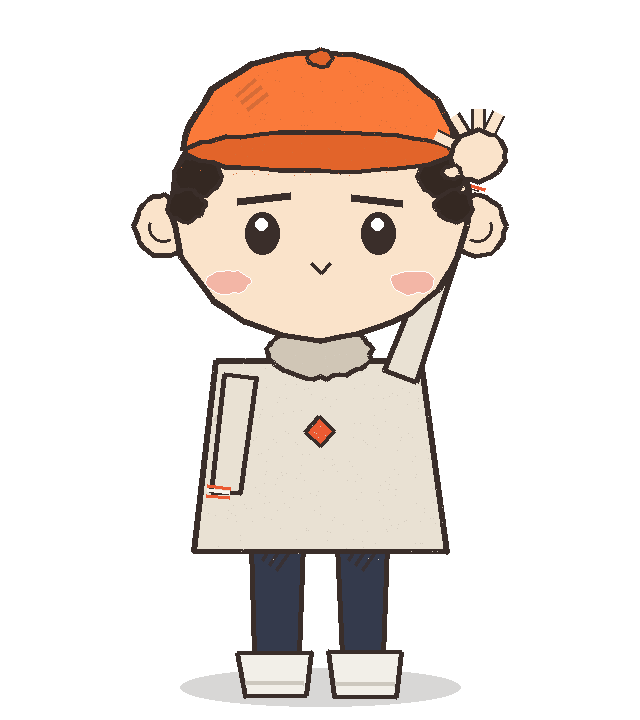
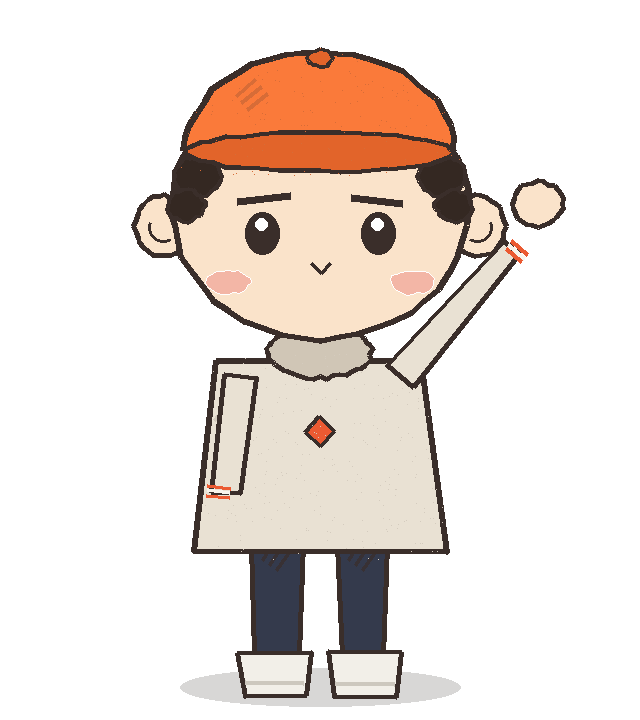
mitten hands (zero fingers, raised hand clear of head) + explain-time card motion: desc wipe-in, shimmer rows, star count-up, tile float, badge ping

Changed region(s): [[0.5938, 0.1528, 0.9062, 0.5194], [0.625, 0.5194, 0.6562, 0.55]]

diff --git a/pipeline/hf_project.py b/pipeline/hf_project.py
@@ -147,8 +147,8 @@ def _card_html(card: dict, uid: str) -> str:
   <div class="cw-head"><span class="cw-dot r"></span><span class="cw-dot y"></span><span class="cw-dot g"></span><span class="cw-title">github.com</span></div>
   <div class="cw-body">
     <div class="cw-reponame">{GITHUB_SVG}<span>{name}</span></div>
-    <div class="cw-desc">{desc}</div>
-    <div class="cw-foot"><span class="cw-stars">{STAR_SVG}<span>{stars}</span></span>{lang_row}</div>
+    <div id="{uid}-repodesc" class="cw-desc">{desc}</div>
+    <div class="cw-foot"><span class="cw-stars">{STAR_SVG}<span id="{uid}-repostars">{stars}</span></span>{lang_row}</div>
   </div>
 </div>'''
     if kind == "stats":
@@ -222,14 +222,15 @@ def _card_html(card: dict, uid: str) -> str:
         short = name.split("/")[-1] if "/" in str(card.get("name", "")) else str(card.get("name", ""))
         tile = _esc((short[:1] or "R").upper())
         rows = "".join(
-            f'<div id="{uid}-mock{j}" class="cw-skrow" style="width:{w}%"></div>'
+            f'<div id="{uid}-mock{j}" class="cw-skrow" style="width:{w}%">'
+            f'<i class="cw-skshine"></i></div>'
             for j, w in enumerate((78, 56, 66)))
         return f'''<div id="{uid}-card" class="clip hf-card" data-start="__CARDSTART__" data-duration="__CDUR__">
-  <div class="cw-toolhead"><span class="cw-toolnum">#{n}</span><span class="cw-tooltile">{tile}</span>
-    <div class="cw-toolmeta"><div class="cw-toolname">{short}</div><div class="cw-tooldesc">{desc}</div></div></div>
+  <div class="cw-toolhead"><span id="{uid}-toolnum" class="cw-toolnum">#{n}</span><span id="{uid}-tooltile" class="cw-tooltile">{tile}</span>
+    <div class="cw-toolmeta"><div class="cw-toolname">{short}</div><div id="{uid}-tooldesc" class="cw-tooldesc">{desc}</div></div></div>
   <div class="cw-toolmock">{rows}</div>
   <div class="cw-toolfoot"><span id="{uid}-osschip" class="cw-osschip">✓ Open source</span>
-    <span class="cw-toolstars">{STAR_SVG}<span>{stars}</span></span></div>
+    <span class="cw-toolstars">{STAR_SVG}<span id="{uid}-starcount">{stars}</span></span></div>
 </div>'''
     if kind == "comment":
         # listicle CTA: the winner's comment-input mockup with the keyword gate
@@ -334,7 +335,9 @@ SCENE_CSS = """
   .cw-toolname { font:800 38px/1.1 'Inter'; color:#0e1220; word-break:break-word; }
   .cw-tooldesc { margin-top:10px; font:500 27px/1.3 'Inter'; color:#3d4356; }
   .cw-toolmock { background:#ffffff; padding:4px 34px 0; }
-  .cw-skrow { height:20px; border-radius:10px; background:#eef0f6; margin-bottom:14px; opacity:0; }
+  .cw-skrow { position:relative; overflow:hidden; height:20px; border-radius:10px; background:#eef0f6; margin-bottom:14px; opacity:0; }
+  .cw-skshine { position:absolute; top:0; bottom:0; left:0; width:34%; border-radius:10px;
+    background:linear-gradient(90deg,rgba(255,255,255,0),rgba(255,255,255,.92),rgba(255,255,255,0)); }
   .cw-toolfoot { display:flex; align-items:center; gap:18px; padding:8px 34px 34px;
     background:#ffffff; border-radius:0 0 26px 26px; }
   .cw-osschip { display:inline-flex; align-items:center; gap:10px; padding:14px 26px;
@@ -479,6 +482,53 @@ def _scene_html(idx: int, scene: dict, tl_data: dict, lead: float) -> str:
             f'  tl.fromTo("#{uid}-osschip",{{scale:0.6,opacity:0}},'
             f'{{scale:1,opacity:1,duration:0.30,ease:"back.out(2.2)",immediateRender:false}},'
             f'{t + 0.05:.2f});')
+        # motion graphics while the narration explains what the repo does:
+        # the description wipes in, the info rows shimmer on a loop, the star
+        # count ticks up, the app tile floats, the #N badge pings. All tweens
+        # are bounded-repeat (seek-safe for the frame-accurate render).
+        t_expl = t + 0.35  # after the Open-source chip lands
+        listicle_tl.append(
+            f'  tl.set("#{uid}-tooldesc",{{clipPath:"inset(-6% 100% -6% 0)"}},{card_start + 0.01:.2f});')
+        listicle_tl.append(
+            f'  tl.to("#{uid}-tooldesc",{{clipPath:"inset(-6% 0% -6% 0)",duration:0.9,ease:"power2.out"}},{t_expl:.2f});')
+        stars_raw = str((scene.get("card") or {}).get("stars", "")).replace(",", "").strip()
+        if stars_raw.isdigit():
+            listicle_tl.append(
+                f'  tl.set("#{uid}-starcount",{{innerText:0}},{card_start + 0.01:.2f});')
+            listicle_tl.append(
+                f'  tl.to("#{uid}-starcount",{{innerText:{int(stars_raw)},snap:"innerText",'
+                f'duration:0.9,ease:"power1.out"}},{t_expl:.2f});')
+        t_shine = card_start + 1.15
+        loop = max(int((max(duration - 0.35, t_shine + 1.2) - t_shine) / 1.15), 1)
+        for j in range(3):
+            listicle_tl.append(
+                f'  tl.fromTo("#{uid}-mock{j} .cw-skshine",{{xPercent:-150}},'
+                f'{{xPercent:330,duration:0.85,ease:"power1.inOut",repeat:{loop},repeatDelay:0.30}},'
+                f'{t_shine + j * 0.22:.2f});')
+        fl = max(int((duration - card_start - 1.2) / 1.0), 1) * 2
+        listicle_tl.append(
+            f'  tl.to("#{uid}-tooltile",{{y:-9,duration:1.0,yoyo:true,repeat:{fl},'
+            f'ease:"sine.inOut",immediateRender:false}},{card_start + 1.20:.2f});')
+        listicle_tl.append(
+            f'  tl.fromTo("#{uid}-toolnum",{{scale:1}},'
+            f'{{scale:1.14,duration:0.42,yoyo:true,repeat:3,ease:"sine.inOut",immediateRender:false}},'
+            f'{card_start + 1.30:.2f});')
+    if kind == "repo":
+        # same explain-time motion on the single-mode GitHub card: description
+        # wipes in as the narration reads it, stars tick up from 0
+        t_expl = card_start + 0.85
+        cardtl = [
+            f'  tl.set("#{uid}-repodesc",{{clipPath:"inset(-6% 100% -6% 0)"}},{card_start + 0.01:.2f});',
+            f'  tl.to("#{uid}-repodesc",{{clipPath:"inset(-6% 0% -6% 0)",duration:0.9,ease:"power2.out"}},{t_expl:.2f});',
+        ]
+        stars_raw = str((scene.get("card") or {}).get("stars", "")).replace(",", "").strip()
+        if stars_raw.isdigit():
+            cardtl.append(
+                f'  tl.set("#{uid}-repostars",{{innerText:0}},{card_start + 0.01:.2f});')
+            cardtl.append(
+                f'  tl.to("#{uid}-repostars",{{innerText:{int(stars_raw)},snap:"innerText",'
+                f'duration:0.9,ease:"power1.out"}},{t_expl:.2f});')
+        listicle_tl.extend(cardtl)
     if is_listicle and kind == "comment":
         # pulse the send button exactly when the shot plan's finale impact lands
         t_hit = max(duration - 0.50, card_start + 0.30)

diff --git a/pipeline/character.py b/pipeline/character.py
@@ -5,7 +5,8 @@ identical in every video, and fully automatable. Style-matched to the family-2
 reference character: orange baseball cap, curly side hair, big round ears, thick
 brows, cream crew-neck sweater with a red chest emblem and striped cuffs, grainy
 sketch texture. Gestures follow the reference's action vocabulary: point-up,
-hand-on-chest, arms-spread, thinking, shrug, wave, thumbs. Kid-safe open hands.
+hand-on-chest, arms-spread, thinking, shrug, wave, fist pump. Kid-safe MITTEN
+hands — zero fingers anywhere (raised hands sit clear of the head).
 
 Produces:
   assets/character/<pose>.png   transparent sprites (idle, point, chest, thumbs,
@@ -103,17 +104,11 @@ def _limb(d, p0, p1, w0, w1, fill):
         d.line([a, b], fill=col, width=4)
 
 
-def _hand(d, cx, cy, r=26, spread=False, fingers=True):
-    """Skin hand with ink outline; optionally an open hand with spread fingers
-    (kid-safe: never a lone raised finger)."""
-    if fingers and spread:
-        for ang in (-64, -32, 0, 26):
-            a = math.radians(ang - 90)
-            x0, y0 = cx + math.cos(a) * r * 0.55, cy + math.sin(a) * r * 0.55
-            x1, y1 = cx + math.cos(a) * (r + 20), cy + math.sin(a) * (r + 20)
-            d.line([(x0, y0), (x1, y1)], fill=INK, width=15)
-            d.line([(x0, y0), (x1, y1)], fill=SKIN, width=9)
-    _sketch_ellipse(d, cx, cy, r, r * 0.92, SKIN, width=5, amt=1.5, n=28)
+def _hand(d, cx, cy, r=26):
+    """Mitten hand: one soft rounded shape with ZERO fingers. The skinny finger
+    nubs read as clutter at video size (and stabbed into the head when raised) —
+    a clean mitt reads instantly at every scale and stays kid-safe."""
+    _sketch_ellipse(d, cx, cy, r, r * 0.9, SKIN, width=5, amt=1.5, n=28)
 
 
 def _hatch(d, x, y, n, ang_deg, ln=26, color=INK, width=3, gap=9):
@@ -244,11 +239,12 @@ def pose_idle():
 def pose_point():
     def arms(d):
         _limb(d, (240, 375), (226, 492), 17, 13, SWEATER)
-        _limb(d, (400, 375), (468, 190), 17, 12, SWEATER)
+        _limb(d, (400, 375), (512, 248), 17, 12, SWEATER)
 
     def hand(d):
-        _hand(d, 478, 156, r=27, spread=True, fingers=True)
-        _sketch_ellipse(d, 452, 172, 9, 7, SKIN, width=4, amt=1.0, n=20)  # thumb nub
+        # raised BESIDE the head (clear of cap, ear and cheek — the old spot
+        # stamped the hand on top of the temple), a clean mitten, no fingers
+        _hand(d, 538, 204, r=25)
 
     return _render("point", arms, [hand])
 
@@ -270,13 +266,14 @@ def pose_shrug():
 def pose_wave():
     def arms(d):
         _limb(d, (240, 375), (226, 492), 17, 13, SWEATER)
-        _limb(d, (400, 375), (458, 205), 17, 12, SWEATER)
+        _limb(d, (400, 375), (504, 258), 17, 12, SWEATER)
 
     def hand(d):
-        _hand(d, 470, 172, r=27, spread=True, fingers=True)
+        _hand(d, 536, 212, r=25)  # beside the head, clear of ear/cap — mitten
 
     def extras(d):
-        for i, (x, y) in enumerate(((416, 148), (402, 184))):
+        # motion arcs in the open air to the right of the hand
+        for i, (x, y) in enumerate(((560, 168), (566, 204))):
             d.arc([x, y, x + 26, y + 30], start=300 - i * 20, end=360 - i * 20,
                   fill=INK, width=3)
 
@@ -289,10 +286,8 @@ def pose_think():
         _limb(d, (400, 375), (392, 318), 16, 11, SWEATER)
 
     def hand(d):
-        # hand at the CHEEK (hmm-pose) — clear of the mouth overlay box
-        _sketch_ellipse(d, 396, 292, 22, 19, SKIN, width=5, amt=1.5, n=28)
-        d.line([_j((392, 280), 1.0), _j((380, 262), 1.0)], fill=INK, width=13)
-        d.line([_j((392, 280), 1.0), _j((380, 262), 1.0)], fill=SKIN, width=8)
+        # mitten resting at the jaw edge (hmm-pose) — clear of the mouth box
+        _sketch_ellipse(d, 404, 300, 22, 19, SKIN, width=5, amt=1.5, n=28)
 
     return _render("think", arms, [hand])
 
@@ -311,13 +306,11 @@ def pose_chest():
 def pose_thumbs():
     def arms(d):
         _limb(d, (240, 375), (226, 492), 17, 13, SWEATER)
-        _limb(d, (400, 380), (418, 288), 17, 13, SWEATER)
+        _limb(d, (400, 380), (452, 302), 17, 13, SWEATER)
 
     def hand(d):
-        _sketch_ellipse(d, 422, 264, 24, 21, SKIN, width=5, amt=1.5, n=28)
-        # thumb up: sketched stub (ink edge + skin fill), no cuff line
-        d.line([_j((424, 252), 1.0), _j((428, 216), 1.0)], fill=INK, width=15)
-        d.line([_j((424, 252), 1.0), _j((428, 216), 1.0)], fill=SKIN, width=9)
+        # raised fist pump beside the jaw — no thumb stub (zero-finger rule)
+        _sketch_ellipse(d, 470, 282, 24, 21, SKIN, width=5, amt=1.5, n=28)
 
     return _render("thumbs", arms, [hand])
 
